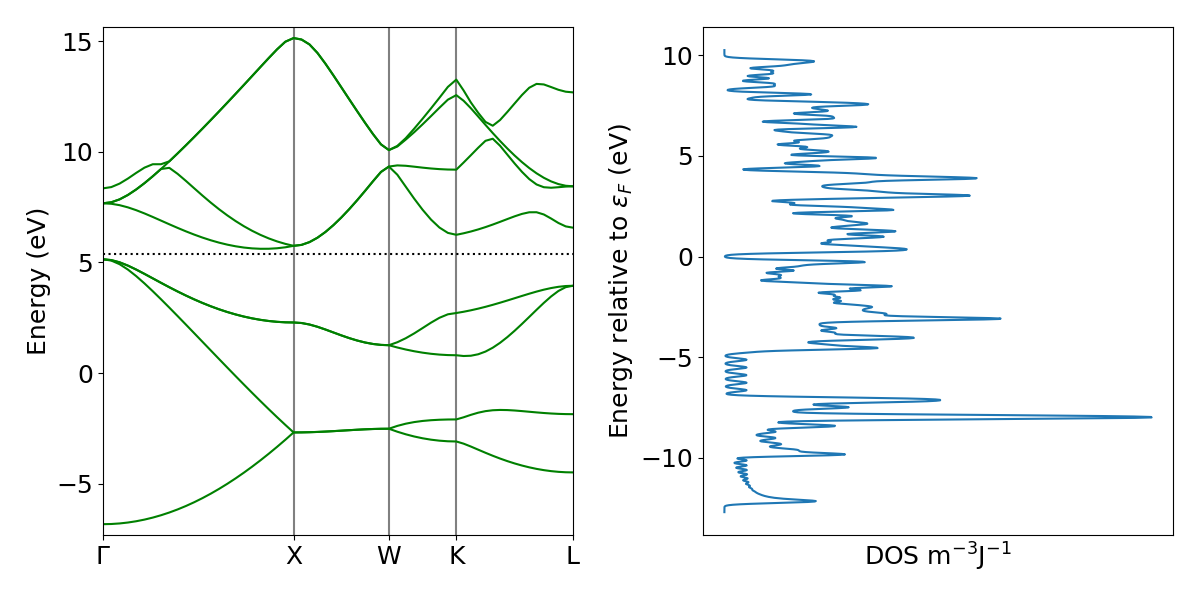
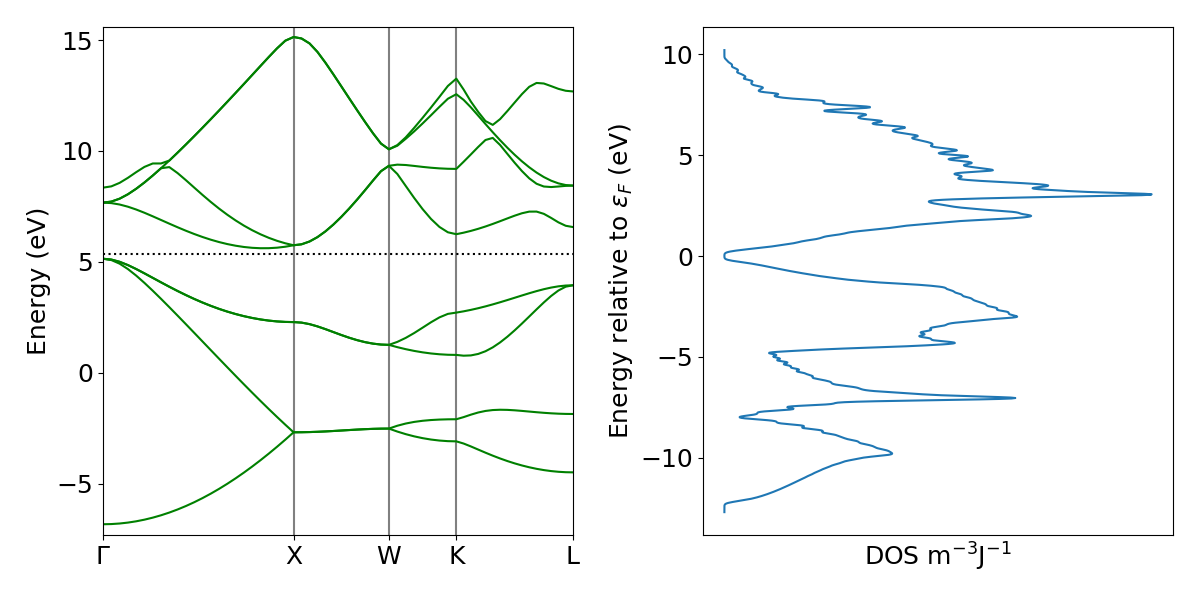
Change DOS width for task 7

diff --git a/ComputationalMaterialsAndMolecularphysics/HW5/task7/task7.py b/ComputationalMaterialsAndMolecularphysics/HW5/task7/task7.py
@@ -124,7 +124,7 @@ calc.set(
 # Fix the potential
 calc.get_potential_energy()
 
-e, dos = calc.get_dos(spin=0, npts=1001, width=0.1)  # Get energy and density of states
+e, dos = calc.get_dos(spin=0, npts=1001, width=0.2)  # Get energy and density of states
 e_f = calc.get_fermi_level()  
 Edos = {
     'e': e, 
